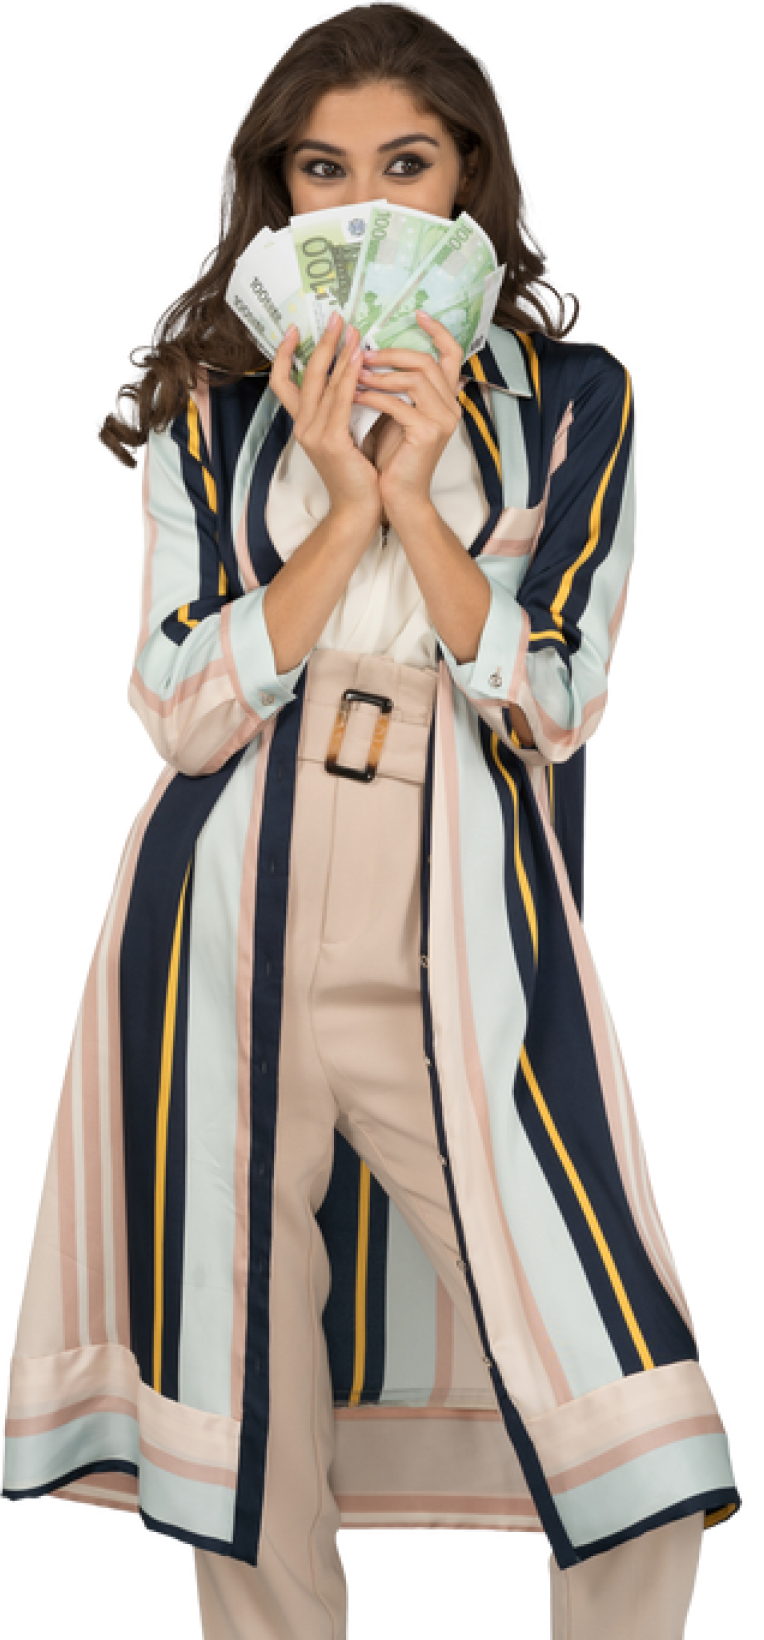
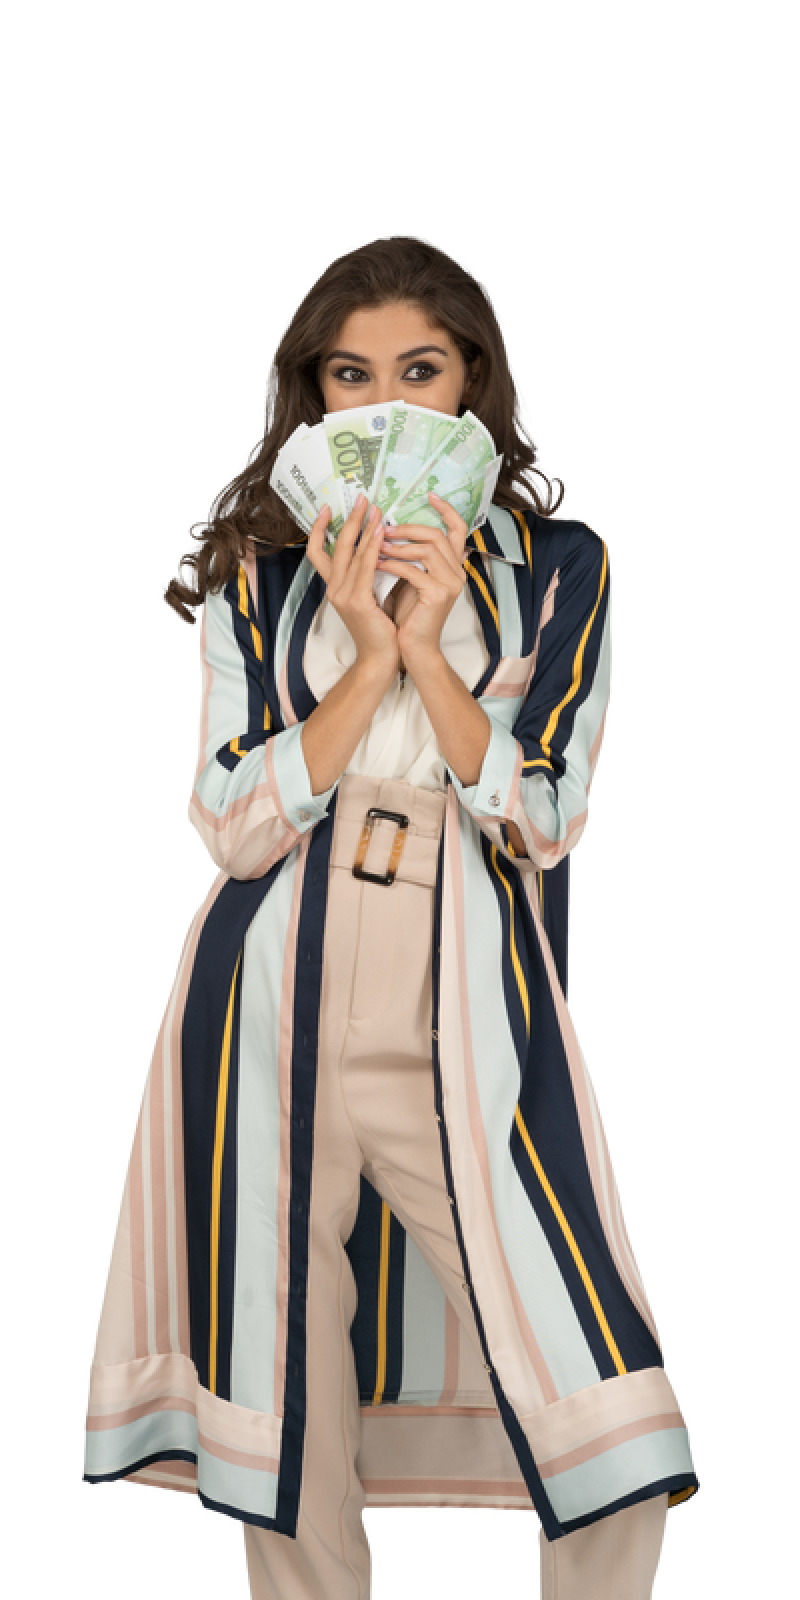
oke

diff --git a/app/components/Banner.tsx b/app/components/Banner.tsx
@@ -5,11 +5,12 @@ import { RootState } from "../redux/store";
 import React, { useEffect, useState } from "react";
 import people1 from "../../public/images/People1.png";
 import people2 from "../../public/images/People2.png";
+import people3 from "../../public/images/People3.png";
 import bg from "../../public/images/bg.png";
 
 export default function Banner() {
   const language = useSelector((state: RootState) => state.language.language);
-  const images = [people2, people1, people2];
+  const images = [people2, people1, people3];
 
   const [currentImageIndex, setCurrentImageIndex] = useState(0);
   const [loaded, setLoaded] = useState(false);
@@ -26,13 +27,7 @@ export default function Banner() {
     setLoaded(true);
   };
   return (
-    <div
-      style={{
-        backgroundImage: `url(${bg.src})`,
-        backgroundSize: "cover",
-        backgroundPosition: "center",
-      }}
-    >
+    <div className="bg-gradient-to-r from-[#FF3742] to-[#B40309]">
       <div className="container mx-auto px-2 md:px-8">
         <div className="h-[800px] lg:h-[650px]  xl:h-[750px] relative max-w-[3000px] mx-auto flex lg:block justify-center">
           {images.map((imageUrl, index) => (
@@ -60,22 +55,22 @@ export default function Banner() {
                   {language === "en" ? "Ticket" : "টিকিট"}
                 </p>
               </div>
-              <p className="font-normal text-[14px] md:text-[16px]">
+              <p className="font-normal text-[14px] md:text-[16px] text-justify">
                 {language === "en"
                   ? "Dear Lottery is a compelling drama that revolves around the lives of individuals whose fates are intertwined by a massive lottery win. The story delves into the complexities of luck, greed, and human nature, exploring how sudden wealth can both transform and complicate relationships. As characters navigate their newfound fortunes, they face moral dilemmas, unexpected challenges, and the poignant realization that money cant buy happiness."
                   : "প্রিয় লটারি হল একটি আকর্ষক নাটক যা সেই ব্যক্তিদের জীবনের চারপাশে আবর্তিত হয় যাদের ভাগ্য একটি বিশাল লটারি জয়ের সাথে জড়িত। গল্পটি ভাগ্য, লোভ এবং মানব প্রকৃতির জটিলতাগুলিকে আবিষ্কার করে, কীভাবে আকস্মিক সম্পদ সম্পর্ককে রূপান্তরিত এবং জটিল করে তুলতে পারে। অক্ষরগুলি যখন তাদের নতুন ভাগ্যের দিকে নেভিগেট করে, তারা নৈতিক দ্বিধা, অপ্রত্যাশিত চ্যালেঞ্জ এবং মর্মান্তিক উপলব্ধির মুখোমুখি হয় যে অর্থ সুখ কিনতে পারে না"}
               </p>
-              <p className="font-normal text-[14px] md:text-[16px] text-[#F7FF01]">
-              {language === "en"
+              <p className="font-normal text-[14px] md:text-[16px] text-[#F7FF01] text-justify">
+                {language === "en"
                   ? "Earn 5% commission on every ticket you resell! Join our program today and start making extra money by helping others find tickets to their favourite events!!!"
                   : "আপনি পুনরায় বিক্রি করা প্রতিটি টিকিটে 5% কমিশন উপার্জন করুন! আজই আমাদের প্রোগ্রামে যোগ দিন এবং অন্যদের তাদের প্রিয় ইভেন্টের টিকিট খুঁজে পেতে সাহায্য করে অতিরিক্ত অর্থ উপার্জন শুরু করুন!!!"}
               </p>
               <div className="flex gap-4 text-black">
-                <div className="flex justify-center items-center h-10 lg:h-14 px-4 bg-[#F9DC00] rounded-md cursor-pointer hover:shadow-md hover:scale-110 duration-300 text-[14px] md:text-[16px]">
-                {language === "en" ? "Take a Ticket" : "টিকিট নিন"} 
+                <div className="flex justify-center w-40 items-center h-10 lg:h-14 px-4 bg-[#F9DC00] rounded-md cursor-pointer hover:shadow-md hover:scale-110 duration-300 text-[14px] md:text-[16px]">
+                  {language === "en" ? "Take a Ticket" : "টিকিট নিন"}
                 </div>
-                <div className="flex justify-center items-center h-10 lg:h-14 w-40 bg-[#F9DC00] rounded-md cursor-pointer hover:shadow-md hover:scale-110 duration-300">
-                {language === "en" ? "Join as Reseller" : "বিক্রেতা হন"}  
+                <div className="flex justify-center  items-center h-10 lg:h-14 w-40 bg-[#F9DC00] rounded-md cursor-pointer hover:shadow-md hover:scale-110 duration-300">
+                  {language === "en" ? "Join as Reseller" : "বিক্রেতা হন"}
                 </div>
               </div>
             </div>
@@ -96,6 +91,7 @@ export default function Banner() {
             </div>
           </div>
         </div>
+       
       </div>
     </div>
   );
